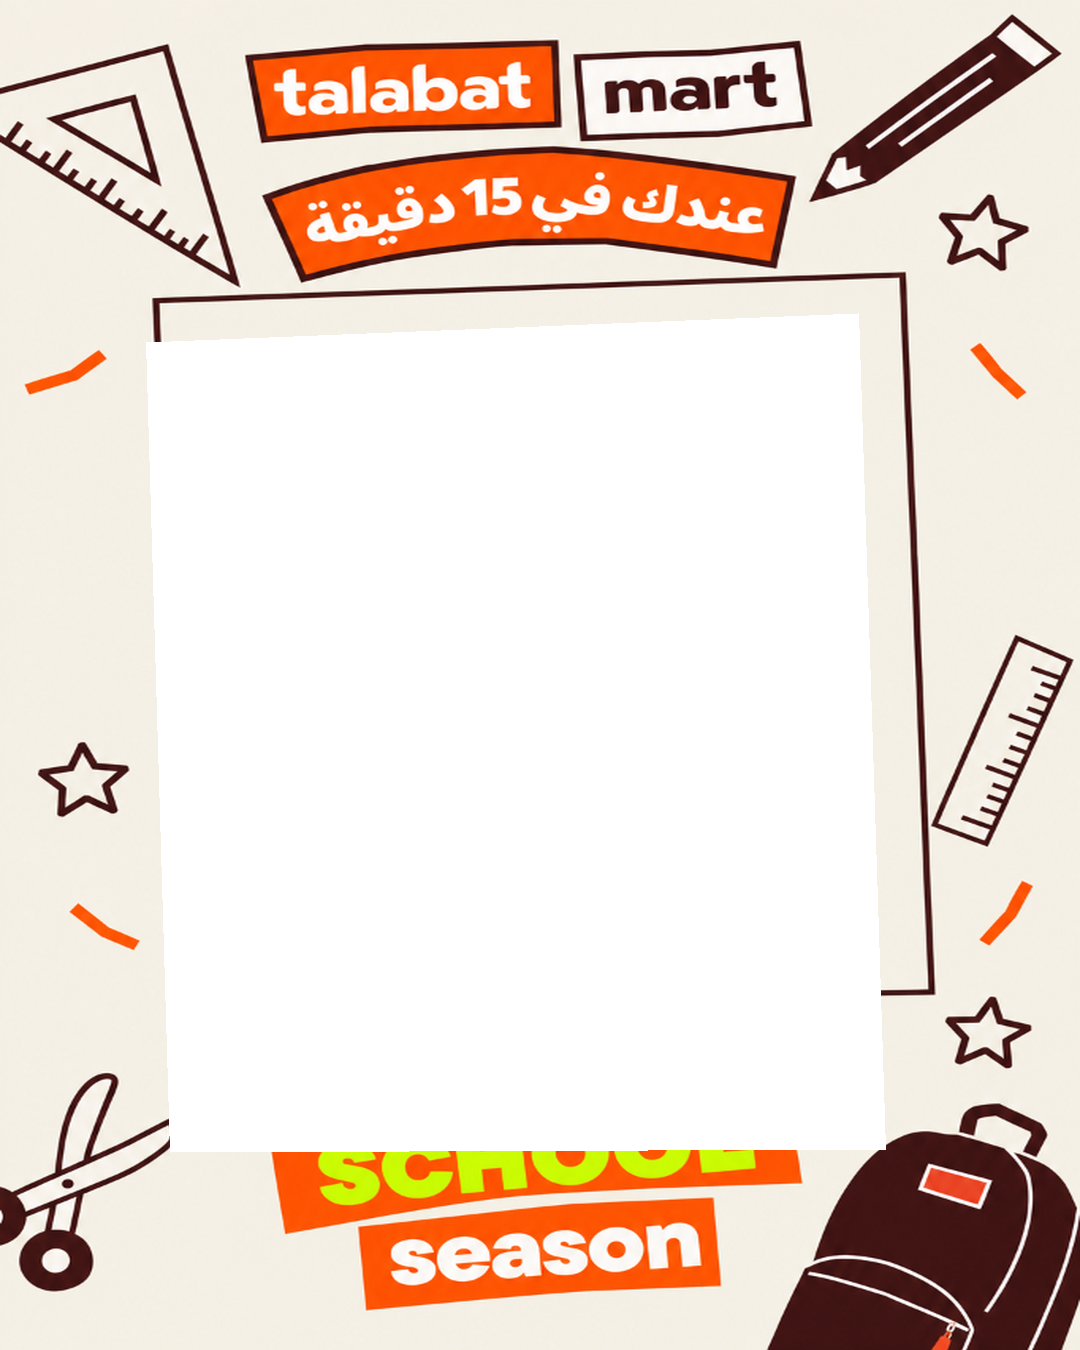
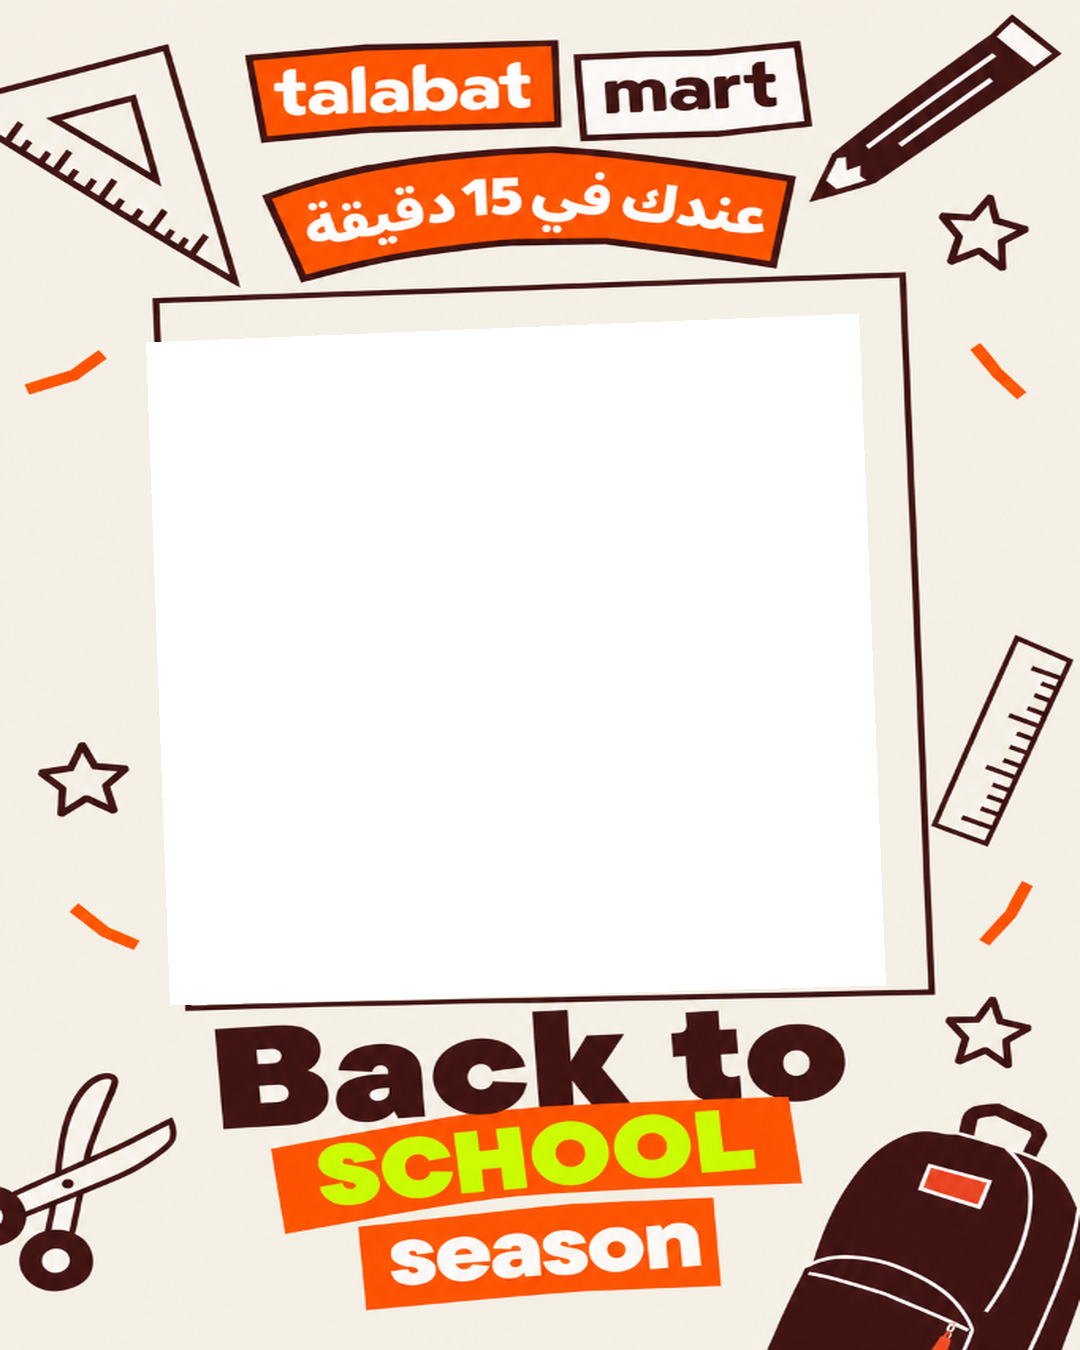
Fix bottom border of transparent cutout covering text

Changed region(s): [[0.1528, 0.5289, 0.825, 0.8711]]

diff --git a/artifacts/memory-booth/src/App.tsx b/artifacts/memory-booth/src/App.tsx
@@ -497,10 +497,10 @@ const createFramedImageBase64 = (rawBase64: string): Promise<string> => {
 
         // Target bounds for the photo inside the frame
         // Expanded slightly to ensure it bleeds under the skewed cutout without white gaps
-        const targetX = 130;
+        const targetX = 135;
         const targetY = 300;
-        const targetW = 770;
-        const targetH = 870;
+        const targetW = 760;
+        const targetH = 720;
 
         const imgRatio = photoImg.width / photoImg.height;
         const targetRatio = targetW / targetH;

diff --git a/artifacts/memory-booth/src/index.css b/artifacts/memory-booth/src/index.css
@@ -3477,9 +3477,9 @@ body {
   .print-photo {
     position: absolute;
     top: 22.2%;
-    left: 12%;
-    width: 71.3%;
-    height: 64.4%;
+    left: 12.5%;
+    width: 70.4%;
+    height: 53.3%;
     object-fit: cover;
     z-index: 1;
   }
